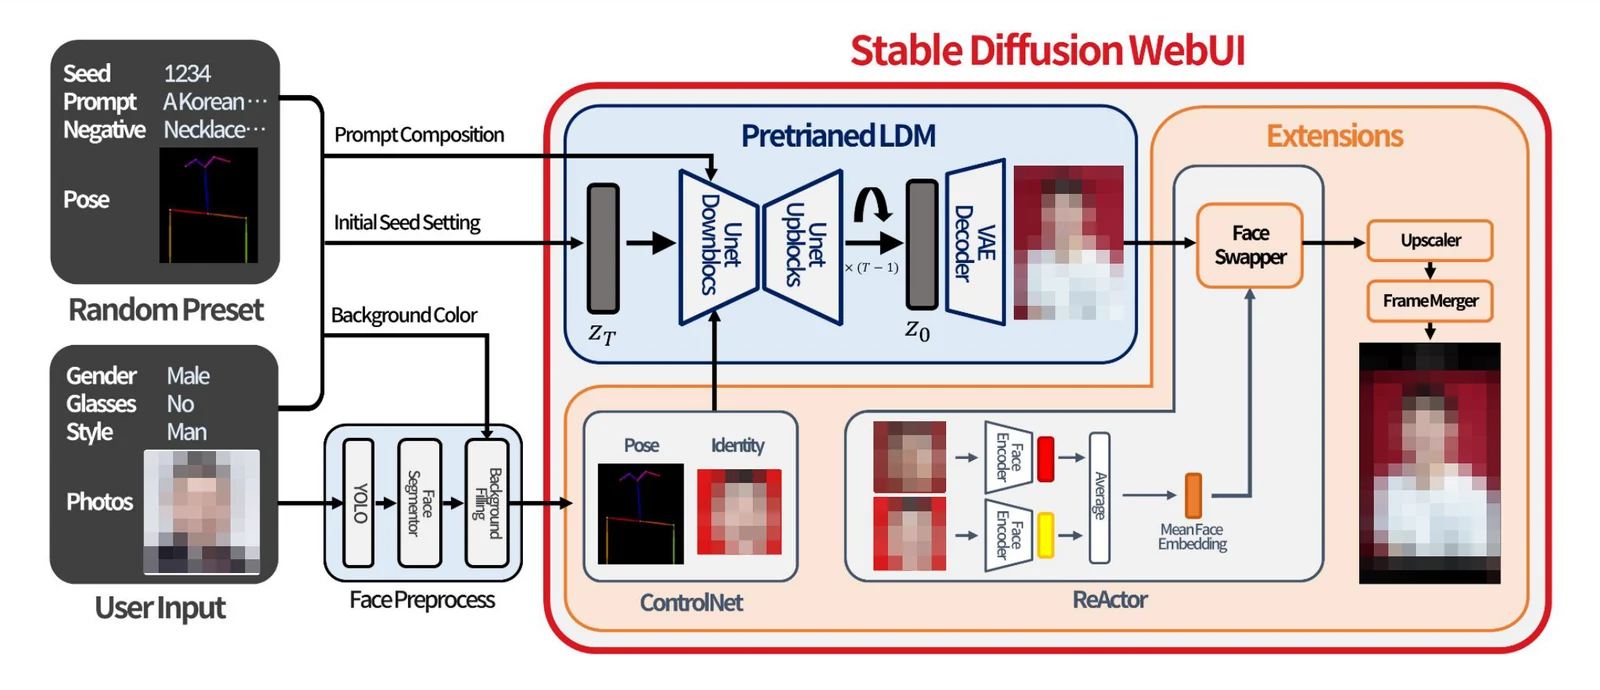
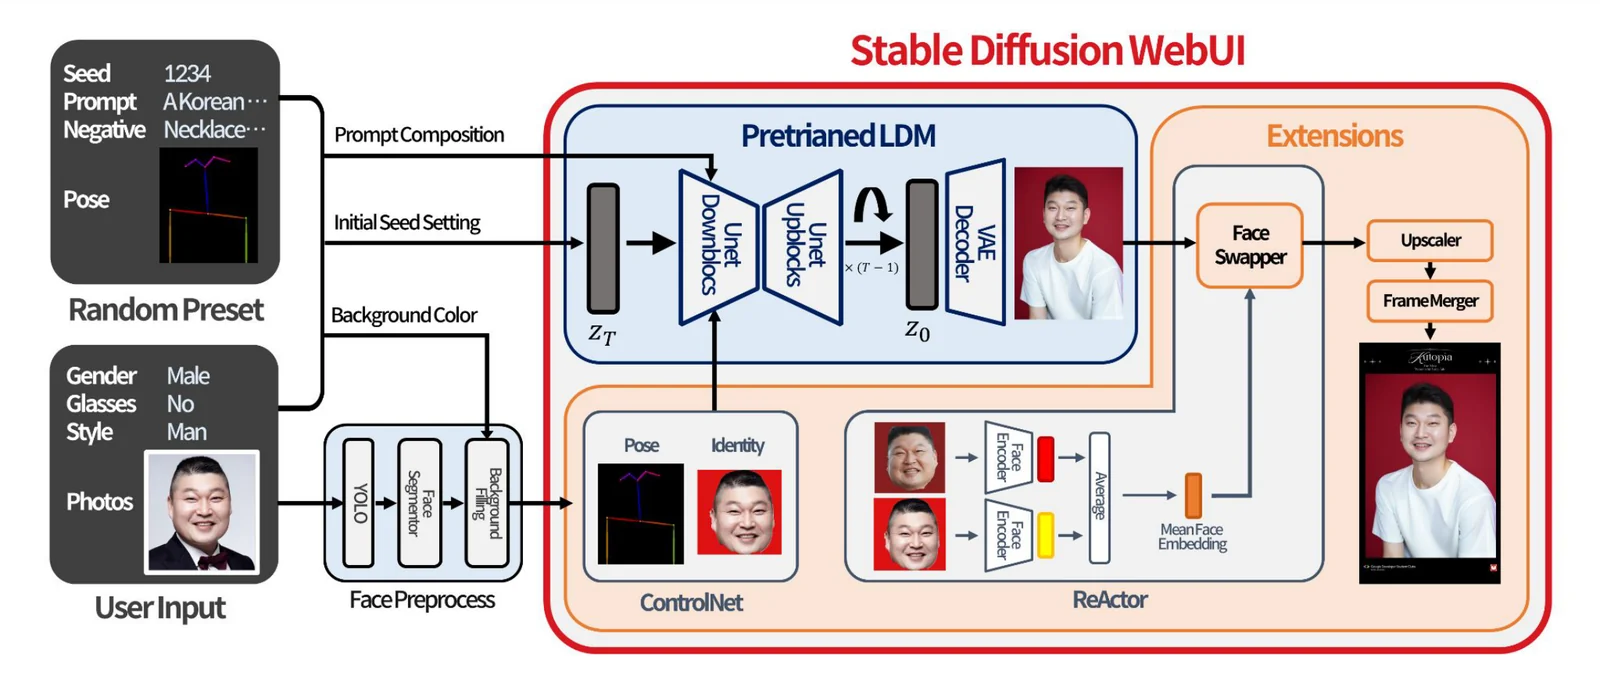
Use the original Horang Studio Ver 2 pipeline figure without mosaic

diff --git a/_projects/horang-studio.md b/_projects/horang-studio.md
@@ -37,7 +37,7 @@ Running Ver 1 surfaced two problems:
 
 Ver 2 dropped the preset images and generated every portrait from the user's photos. The upload page also stated clearly which photos work.
 
-![Ver 2 pipeline (faces mosaicked)](/assets/images/projects/horang-pipeline-v2.webp)
+![Ver 2 pipeline](/assets/images/projects/horang-pipeline-v2.webp)
 
 - **IP-Adapter** uses the photo itself as an image prompt, so face shape and build carry over without being described in text.
 - **Face preprocessing** with YOLO face detection, a face segmenter, and background filling keeps only the face. Without it, IP-Adapter also copied the background color and the pose of the source photo.
